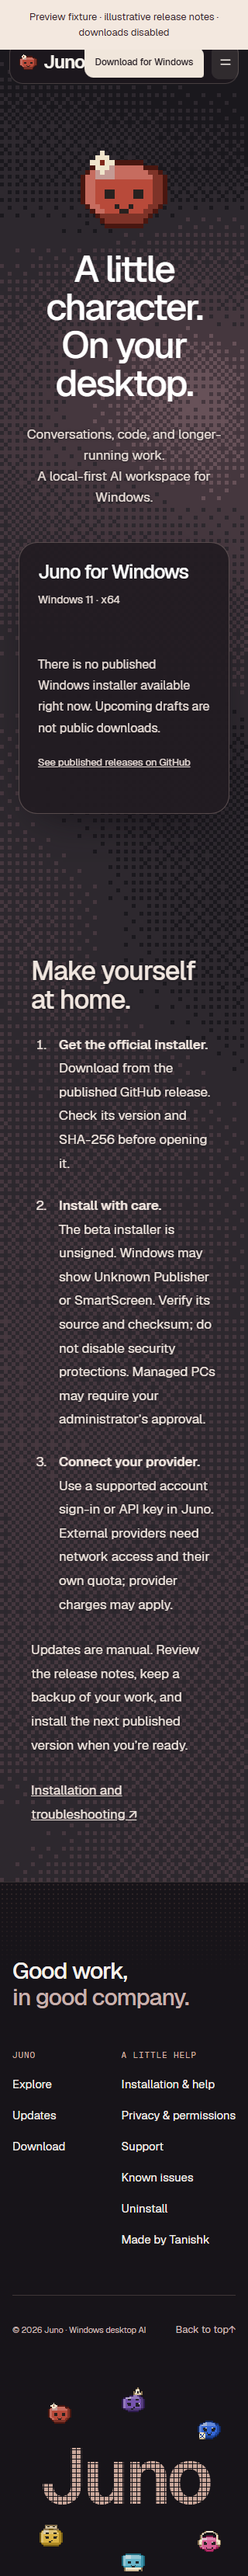
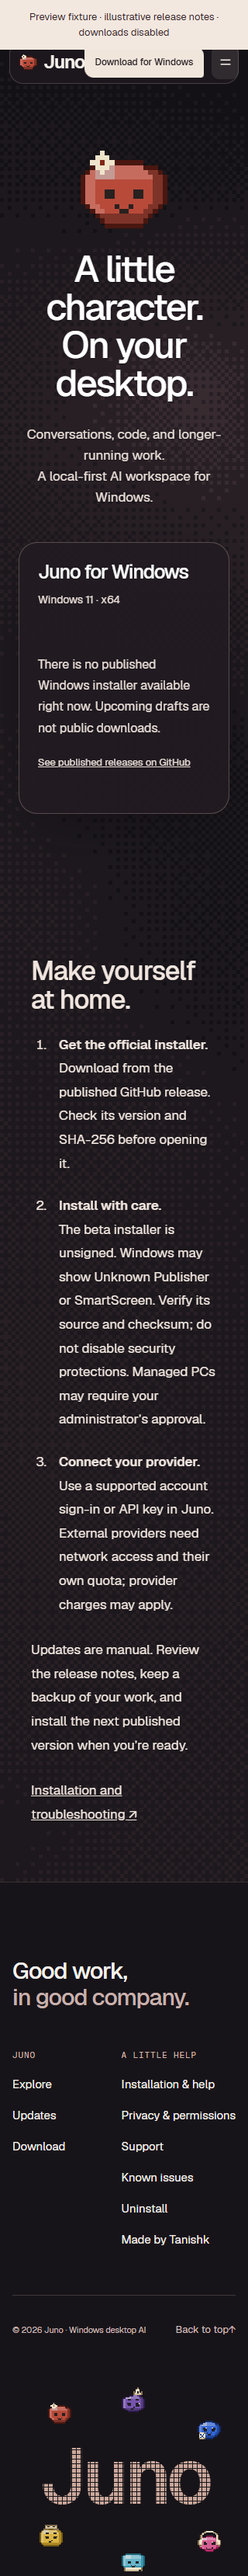
Refine website previews, reading contrast and footer

Changed region(s): [[0.0, 0.2795, 1.0, 0.7453], [0.0, 0.0932, 1.0, 0.2795]]

diff --git a/index.html b/index.html
@@ -60,19 +60,13 @@
           <p class="hero-explainer">A local-first Windows desktop agent. Talk with a companion, work on a codebase, or give a longer task a place to unfold.</p>
           <div class="hero-cta">
             <a class="pill pill-white" href="/download/">Get Juno for Windows</a>
-            <a class="pill pill-ghost" href="#demo"
-              ><svg viewBox="0 0 20 20" fill="currentColor" aria-hidden="true"><path d="M7 4.5 15 10l-8 5.5z" /></svg>Watch the demo</a
+            <a class="pill pill-ghost" href="#product"
+              ><svg viewBox="0 0 20 20" fill="currentColor" aria-hidden="true"><path d="M3 9h11L10 5l1.4-1.4L18 10l-6.6 6.4L10 15l4-4H3z" /></svg>Explore Juno</a
             >
           </div>
           <p class="hero-fine">Windows 11 x64 · <a href="/download/">Published releases & installation</a></p>
         </div>
         <a class="hero-scroll-cue" href="#product">Explore the workspace <svg viewBox="0 0 20 20" fill="none" stroke="currentColor" stroke-width="1.5" aria-hidden="true"><path d="M10 3v14m-5-5 5 5 5-5" /></svg></a>
-        <div class="hero-foot">
-          <div class="hero-cast" role="group" aria-label="Choose who greets you">
-            <button class="hero-pick" data-hero-pick="kyoto" aria-pressed="true" aria-label="Say hello to Kyoto"><img src="/assets/kyoto.png" alt="" width="44" height="39" /></button><button class="hero-pick" data-hero-pick="prague" aria-pressed="false" aria-label="Say hello to Prague"><img src="/assets/prague.png" alt="" width="44" height="46" /></button><button class="hero-pick" data-hero-pick="lisbon" aria-pressed="false" aria-label="Say hello to Lisbon"><img src="/assets/lisbon.png" alt="" width="44" height="34" /></button><button class="hero-pick" data-hero-pick="seoul" aria-pressed="false" aria-label="Say hello to Seoul"><img src="/assets/seoul.png" alt="" width="44" height="40" /></button><button class="hero-pick" data-hero-pick="toronto" aria-pressed="false" aria-label="Say hello to Toronto"><img src="/assets/toronto.png" alt="" width="44" height="34" /></button><button class="hero-pick" data-hero-pick="new-york" aria-pressed="false" aria-label="Say hello to New York"><img src="/assets/new-york.png" alt="" width="44" height="42" /></button>
-          </div>
-          <p class="scene-plate"><span id="hero-host-name">Kyoto</span><span id="hero-host-trait">Calm, precise, composed</span></p>
-        </div>
       </section>
 
       <section class="work-story" id="workspace-story" data-hour="10"><div class="story-heading"><h2>One workspace.<br>Room to go further.</h2><p>Your conversation stays close. Code opens beside it. Recent Work keeps a path back to the project.</p></div><div class="workflow-views" role="tablist" aria-label="Explore the v0.5 workspace"><button type="button" role="tab" id="view-workspace" aria-controls="workflow-view" aria-selected="true" tabindex="0" data-workflow-view="workspace">Conversation</button><button type="button" role="tab" id="view-code" aria-controls="workflow-view" aria-selected="false" tabindex="-1" data-workflow-view="code">Code</button><button type="button" role="tab" id="view-mission" aria-controls="workflow-view" aria-selected="false" tabindex="-1" data-workflow-view="mission">Mission</button></div><figure class="v05-stage" id="workflow-view" role="tabpanel" aria-labelledby="view-workspace"><img src="/assets/v05-workspace.webp" width="1440" height="900" alt="Juno’s v0.5 workspace with six companions, Recent Work and Code and Mission in the composer" loading="lazy"><figcaption>Actual v0.5 interface · staged example workspace, not a live agent execution.</figcaption></figure><div class="story-sequence"><article><span>Conversation</span><h3>Start with a thought.</h3><p>A question, a plan, a rough draft. Six distinct companions share one familiar workspace.</p></article><article><span>Code</span><h3>Bring the project along.</h3><p>Inspect files, ask a read-only question, or authorize a change. The workspace and its permissions stay visible beside the conversation.</p></article><article><span>Mission</span><h3>Give the work a boundary.</h3><p>Plan a longer task, review its scope, and follow execution through its recorded result. Ariadne verification is shown where supported; an ordinary response is not a verified outcome.</p></article></div></section><section data-chapter="kyoto" data-hour="11.5" class="showcase" aria-labelledby="product-title">
@@ -104,65 +98,14 @@
               </div>
             </div>
             <p class="image-caption">
-              <span id="preview-caption" aria-live="polite">Conversation with Kyoto · Illustrative text, real app</span
+              <span id="preview-caption" aria-live="polite">Actual v0.5 conversation workspace · staged example records</span
               ><span>Open an image to explore the details <span aria-hidden="true">↗</span></span>
             </p>
           </div>
         </div>
       </section>
 
-      <section data-chapter="kyoto" data-hour="15.5" class="demo-section" id="demo" data-historical="true" aria-labelledby="demo-title">
-        <div class="sec-h">
-          <h2 id="demo-title" class="kin">Plan a Saturday pop-up with Kyoto.</h2>
-          <p class="lede" data-reveal>
-            A real conversation, from the first request to three practical next
-            steps.
-          </p>
-        </div>
-        <div class="story-steps" role="group" aria-label="Explore the recorded conversation">
-<button data-story-time="0" aria-pressed="true"><span>Start with a task</span><small>A Saturday bookshop pop-up. A clear, bounded request.</small></button>
-<button data-story-time="7" aria-pressed="false"><span>Watch Kyoto respond</span><small>Follow the real provider response as it arrives.</small></button>
-<button data-story-time="18" aria-pressed="false"><span>Leave with a plan</span><small>Confirm the venue, choose the books, arrange the essentials.</small></button>
-</div><p class="story-status" id="story-status" role="status">A genuine conversation recorded in Juno. Choose a moment to inspect.</p>
-        <div class="demo-side" data-reveal="frame">
-          <div class="demo-stage mac">
-            <video id="workflow-demo" muted controls playsinline preload="metadata" poster="/assets/workflow-demo-poster.webp" width="840" height="500" aria-describedby="demo-caption">
-              <source src="/assets/juno-workflow.mp4" type="video/mp4" />
-              <track kind="captions" src="/assets/workflow-demo.vtt" srclang="en" label="English" />
-              Your browser cannot play this video. The complete conversation is
-              available below.
-            </video>
-            <button id="play-demo" class="demo-play pill pill-white" type="button" aria-controls="workflow-demo" hidden>
-              <svg viewBox="0 0 20 20" fill="currentColor" aria-hidden="true"><path d="M6 3.5 16 10 6 16.5z" /></svg>
-              <span id="demo-play-label">Play 22-second demo</span>
-            </button>
-          </div>
-          <p class="demo-error" id="demo-error" role="status" hidden></p>
-        </div>
-        <div class="demo-copy" data-reveal>
-          <p class="demo-caption" id="demo-caption">
-            22-second recording · Real provider response · Conversation close-up
-          </p>
-          <details class="demo-transcript">
-            <summary>Read the conversation</summary>
-            <div>
-              <p class="transcript-speaker">You</p>
-              <p>
-                Help me plan a Saturday bookshop pop-up. Give me three practical
-                first steps, under 60 words total.
-              </p>
-              <p class="transcript-speaker">Kyoto</p>
-              <ol>
-                <li>Confirm the date, hours, and permission with the bookshop.</li>
-                <li>Choose a focused book selection and set prices.</li>
-                <li>Arrange a table, payment method, and simple sign.</li>
-              </ol>
-            </div>
-          </details>
-        </div>
-      </section>
-
-      <section data-chapter="kyoto" data-hour="18.4" class="company-section" aria-labelledby="company-title">
+<section data-chapter="kyoto" data-hour="18.4" class="company-section" aria-labelledby="company-title">
         <div class="company-stage">
           <div class="company-copy">
             <h2 id="company-title" class="kin">Good work starts<br /><em>with good company.</em></h2>
@@ -239,7 +182,7 @@
             </button>
           </div>
         </div>
-        <div class="companion-next"><p id="companion-context">Put Kyoto’s focus to work in the recorded planning conversation.</p><a id="companion-destination" class="pill pill-ghost" href="#demo">Explore a task with Kyoto</a><small>Suggested starting points. You choose each companion’s instructions and tools.</small></div>
+        <div class="companion-next"><p id="companion-context">Explore Kyoto’s conversation and project workspace.</p><a id="companion-destination" class="pill pill-ghost" href="#product">Explore a task with Kyoto</a><small>Suggested starting points. You choose each companion’s instructions and tools.</small></div>
         <p class="gallery-note" data-reveal>
           A starting personality, not a limit. Give any companion your own
           instructions, tools, and working style.
@@ -507,7 +450,7 @@
         </div>
         <span>Juno</span>
       </div>
-      <div class="footer-motion"><button id="footer-flight-toggle" type="button" aria-pressed="false">Pause companion flight</button></div>
+      
     </footer>
     <dialog id="image-dialog" data-lenis-prevent aria-labelledby="image-dialog-caption">
       <div class="dialog-bar">

diff --git a/src/main.ts b/src/main.ts
@@ -73,39 +73,7 @@ const companions: Record<string, Companion> = {
 };
 const byId = <T extends HTMLElement>(id: string) =>
   document.getElementById(id) as T;
-const demoVideo = byId<HTMLVideoElement>("workflow-demo");
-const playDemo = byId<HTMLButtonElement>("play-demo");
-const demoError = byId("demo-error");
 const reducedMotion = window.matchMedia("(prefers-reduced-motion: reduce)");
-demoVideo.muted = true;
-demoVideo.autoplay = !reducedMotion.matches;
-demoVideo.controls = false;
-async function playWorkflow(showError = true) {
-  playDemo.hidden = true;
-  demoError.hidden = true;
-  demoVideo.controls = true;
-  try {
-    await demoVideo.play();
-  } catch {
-    demoVideo.controls = false;
-    playDemo.hidden = false;
-    demoError.textContent =
-      "The demo couldn’t play. Try again, or read the conversation below.";
-    demoError.hidden = !showError;
-  }
-}
-playDemo.addEventListener("click", () => void playWorkflow());
-demoVideo.addEventListener("play", () => {
-  playDemo.hidden = true;
-  demoVideo.controls = true;
-});
-demoVideo.addEventListener("ended", () => {
-  demoVideo.controls = false;
-  byId("demo-play-label").textContent = "Replay demo";
-  playDemo.hidden = false;
-});
-if (reducedMotion.matches) playDemo.hidden = false;
-else void playWorkflow(false);
 const copyEmail = byId<HTMLButtonElement>("copy-email");
 copyEmail.hidden = false;
 copyEmail.addEventListener("click", async () => {
@@ -178,9 +146,9 @@ const previewScenes: Record<
     caption: "Actual v0.5 workspace · staged example records",
   },
   workspace: {
-    image: "v05-workspace",
-    alt: "Juno’s actual workspace with Kyoto at the center and the six city companions in the sidebar.",
-    caption: "Actual v0.5 workspace · staged example records",
+    image: "v05-files",
+    alt: "The v0.5 project workspace open beside the conversation, with the Files panel visible.",
+    caption: "Actual v0.5 project workspace · Files panel with staged example records",
   },
   code: {
     image: "v05-code",
@@ -413,9 +381,6 @@ decorativeOrbs.forEach((orb) => motionVisibility.observe(orb));
 document.addEventListener("visibilitychange", updateMotion);
 reducedMotion.addEventListener("change", () => {
   if (reducedMotion.matches) {
-    demoVideo.autoplay = false;
-    demoVideo.pause();
-    if (!demoVideo.currentTime) playDemo.hidden = false;
     tourPlaying = false;
     charactersPlaying = false;
     previewTransition?.finish();
@@ -605,26 +570,6 @@ updateNavigation();
 // ── Hero: choose who greets you ────────────────────────────────────────────
 const hero = byId("overview");
 const heroScene = byId("hero-scene");
-const heroOrb = byId<HTMLImageElement>("hero-orb");
-const heroPicks = [
-  ...document.querySelectorAll<HTMLButtonElement>("[data-hero-pick]"),
-];
-for (const pick of heroPicks) {
-  pick.addEventListener("click", () => {
-    const key = pick.dataset.heroPick!;
-    const c = companions[key];
-    heroPicks.forEach((b) => b.setAttribute("aria-pressed", String(b === pick)));
-    hero.dataset.host = key;
-    heroOrb.dataset.orb = key;
-    heroOrb.alt = `${c.name}, one of Juno’s six pixel companions`;
-    byId("hero-greeting").textContent = c.greeting;
-    byId("hero-host-name").textContent = c.name;
-    byId("hero-host-trait").textContent = c.personality;
-    replay(heroScene, "swap");
-    updateMotion();
-  });
-}
-
 // ── Scroll reveals ─────────────────────────────────────────────────────────
 const revealObserver = new IntersectionObserver(
   (entries) => {
@@ -847,30 +792,13 @@ document
   .forEach((panel) => featureObserver.observe(panel));
 
 // Website guides expose genuine media; they do not execute agent tasks.
-const storyButtons = [...document.querySelectorAll<HTMLButtonElement>('[data-story-time]')];
-for (const button of storyButtons) button.addEventListener('click', async () => {
-  storyButtons.forEach(b => b.setAttribute('aria-pressed', String(b === button)));
-  if (demoVideo.readyState < 1) {
-    try { await new Promise<void>((resolve, reject) => {
-      const done = () => { clearTimeout(timeout); resolve(); };
-      const timeout = setTimeout(() => { demoVideo.removeEventListener('loadedmetadata', done); reject(new Error('Video unavailable')); }, 5000);
-      demoVideo.addEventListener('loadedmetadata', done, { once: true }); demoVideo.load();
-    }); } catch { byId('story-status').textContent = 'The recording could not load. Read the complete conversation below.'; return; }
-  }
-  demoVideo.pause();
-  demoVideo.currentTime = Math.min(Number(button.dataset.storyTime), Math.max(0, demoVideo.duration - .1));
-  demoVideo.controls = true;
-  playDemo.hidden = false;
-  byId('demo-play-label').textContent = 'Continue recording';
-  byId('story-status').textContent = button.querySelector('small')!.textContent;
-});
 const depths: Record<string, string> = { quick: 'A focused pass with a few sources.', standard: 'Several angles, cross-checked.', deep: 'Broad discovery, with explicit uncertainty.' };
 for (const button of document.querySelectorAll<HTMLButtonElement>('[data-depth]')) button.addEventListener('click', () => {
   document.querySelectorAll('[data-depth]').forEach(b => b.setAttribute('aria-pressed', String(b === button)));
   byId('research-explanation').textContent = depths[button.dataset.depth!];
 });
 const companionPaths: Record<string, [string, string, string]> = {
- kyoto: ['#demo', 'Explore a task with Kyoto', 'Put Kyoto’s focus to work in the recorded planning conversation.'],
+ kyoto: ['#product', 'Explore Kyoto’s workspace', 'Explore Kyoto’s conversation and project workspace.'],
  prague: ['#feature-research', 'Explore research controls', 'Give a question room for the skeptical perspective you choose.'],
  lisbon: ['#feature-results', 'Explore the Library', 'Keep the writing and files you create close to the conversation.'],
  seoul: ['#code', 'Explore the Code workspace', 'Bring a builder’s perspective into your project workspace.'],
@@ -883,19 +811,3 @@ for (const button of companionButtons) button.addEventListener('click', () => {
  byId('companion-context').textContent = context;
 });
 
-// The closing scene rests whenever it cannot be seen or motion is unwanted.
-const flightToggle = byId<HTMLButtonElement>('footer-flight-toggle');
-let flightVisible = false;
-let flightPaused = false;
-function syncFlight() {
- const resting = reducedMotion.matches;
- footerMark.classList.toggle('flight-running', flightVisible && !flightPaused && !resting && !document.hidden);
- flightToggle.hidden = resting;
- flightToggle.setAttribute('aria-pressed', String(flightPaused));
- flightToggle.textContent = flightPaused ? 'Resume companion flight' : 'Pause companion flight';
-}
-new IntersectionObserver(([entry]) => { flightVisible = entry.isIntersecting; syncFlight(); }, { threshold: .12 }).observe(footerMark);
-flightToggle.addEventListener('click', () => { flightPaused = !flightPaused; syncFlight(); });
-reducedMotion.addEventListener('change', syncFlight);
-document.addEventListener('visibilitychange', syncFlight);
-syncFlight();

diff --git a/src/refresh.css b/src/refresh.css
@@ -60,3 +60,17 @@ body[data-page]>.site-footer{background:#171419}
 @media(max-width:760px){.support-version-bar{align-items:start;flex-direction:column;gap:16px}.support-version-bar label{width:100%}.known-issue{padding:28px 0}.issue-workaround{padding:14px 16px}}
 
 .markdown-table{max-width:100%;overflow:auto;margin:20px 0;border:1px solid var(--night-line);border-radius:8px}.markdown-table table{border-collapse:collapse;min-width:100%;font-size:13px}.markdown-table :is(th,td){padding:10px 14px;text-align:left;border-bottom:1px solid var(--night-line);min-width:130px}.markdown-table th{font-weight:600;background:#211b21}.release-markdown blockquote{border-left:1px solid #b99c90;padding-left:18px;color:#eaded8;margin:20px 0}
+
+/* Reading contrast: preserve the pixel world while lowering its visual noise. */
+body{background:#211b21}
+.sky{filter:brightness(.66);opacity:.7}
+:is(.feature-panel,.story-sequence,.story-heading,.sec-h,.reading-page,.release-body,.journal-intro,.download-intro){text-shadow:0 1px 2px #171419}
+.feature-panel>p,.story-sequence p,.lede,.release-markdown{color:#f1e6df}
+.feature-panel>.feature-note,.image-caption,.preview-disclosure{color:#eadbd3}
+/* The closing section is the same quiet, solid surface on every route. */
+.site-footer,body[data-page]>.site-footer{position:relative;background:#171419}
+.site-footer::before{display:none}
+.footer-motion{display:none}
+body:not([data-page]) .footer-mark{margin-top:48px}
+.release-more{margin-top:32px}
+@media(max-width:600px){.release-more{margin-top:24px}}

diff --git a/src/site.ts b/src/site.ts
@@ -60,7 +60,7 @@ async function render() { const container = list ?? download; if (!container)
             return;
         }
         let shown = 0;
-        const more = el('button', 'Show more releases', 'pill pill-ghost');
+        const more = el('button', 'Show more releases', 'pill pill-ghost release-more');
         more.type = 'button';
         const next = () => { const batch = feed.releases.slice(shown, shown + 8); batch.forEach((r, i) => list.insertBefore(releaseArticle(r, shown === 0 && i === 0, false), more)); shown += batch.length; more.hidden = shown >= feed.releases.length; };
         list.append(more);

diff --git a/WEBSITE-V05-HANDOFF.md b/WEBSITE-V05-HANDOFF.md
@@ -52,3 +52,4 @@ The current NSIS configuration/custom uninstall hook and public INSTALL.md were 
 proposed-public-support/ contains a preserved public v0.4.2 archive, a versioned manifest, three confirmed general v0.5 limitations and draft Install/Privacy/Feedback copy. The v0.5 record is approved:false. It is deliberately partial and must be reconciled with DeepSeek’s final corrected build and approved before any public distribution-repository update. It contains no machine-specific private findings. Nothing in juno-beta, the draft release, its assets, checksums or signed feed was edited. The website runtime and preview can be completed independently; publishing the approved public support files is the remaining coordination step.
 
 The explicit approved:false manifest flag also blocks legacy fallback for that version; a matching root Markdown file cannot bypass pending approval. Total data tests now pass: 12.
+`n## Visual refinement follow-up`nRemoved the obsolete workflow video and hero companion bar. Conversation, project workspace (Files panel), and Code now use distinct current-renderer images with working full-size dialogs. Pixel luminance and opacity are reduced for reading contrast. The home footer matches the solid Updates footer, with a static companion composition and no background pattern. Release pagination has 32px separation from the final divider (24px on small screens). Headless checks cover 1440/1280/390/320px, all three images/dialogs, accessibility and no overflow; evidence/visual-polish contains focused screenshots and receipt. Existing refresh regression suite and all 12 data tests pass.
